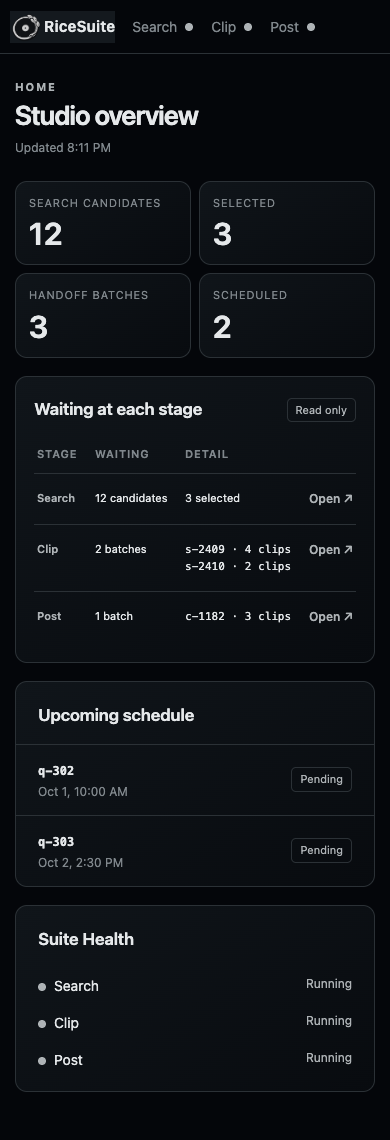
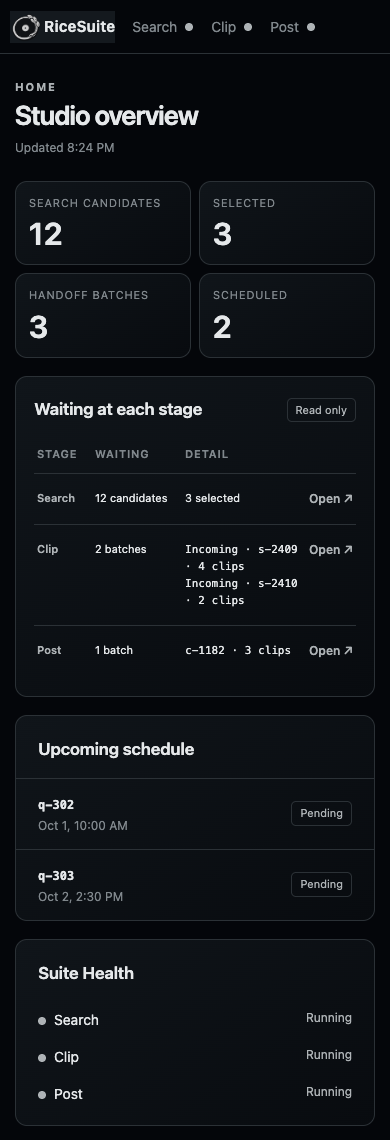
fix(shell): show Clipper workspace and pending schedule accurately

diff --git a/ricesuite/shell/shell.js b/ricesuite/shell/shell.js
@@ -54,6 +54,37 @@ function setBatches(field, batches) {
   }
 }
 
+function setClipBatches(incoming, open) {
+  const list = document.querySelector('[data-list="clip"]');
+  list.replaceChildren();
+  if (!Array.isArray(incoming) || !Array.isArray(open)) {
+    setCount("clip-waiting", "Clip is not answering", true);
+    const item = document.createElement("li");
+    item.className = "empty";
+    item.textContent = "Unavailable";
+    list.append(item);
+    return;
+  }
+  const batches = [
+    ...incoming.map(batch => ({ batch, label: "Incoming" })),
+    ...open.map(batch => ({ batch, label: "In Clip" }))
+  ];
+  setCount("clip-waiting", plural(batches.length, "batch", "batches"));
+  if (!batches.length) {
+    const item = document.createElement("li");
+    item.className = "empty";
+    item.textContent = "No batches waiting";
+    list.append(item);
+  }
+  for (const { batch, label } of batches) {
+    const item = document.createElement("li");
+    const name = batch.batch_id || "Unnamed batch";
+    const count = batch.clip_count;
+    item.textContent = `${label} · ${name}${count == null ? "" : ` · ${plural(count, "clip")}`}`;
+    list.append(item);
+  }
+}
+
 function setSchedule(batches) {
   const list = document.querySelector('[data-list="scheduled"]');
   list.replaceChildren();
@@ -105,17 +136,12 @@ function updateHome(data) {
     setCount("search-detail", "—", true);
   }
 
-  for (const [field, unavailable] of [
-    ["to_clipper", "Clip is not answering"],
-    ["to_poster", "Post is not answering"]
-  ]) {
-    const batches = data[field];
-    setCount(field, Array.isArray(batches) ? plural(batches.length, "batch", "batches") : unavailable, !Array.isArray(batches));
-    setBatches(field, batches);
-  }
+  setClipBatches(data.to_clipper, data.clip_open);
+  const postBatches = data.to_poster;
+  setCount("to_poster", Array.isArray(postBatches) ? plural(postBatches.length, "batch", "batches") : "Post is not answering", !Array.isArray(postBatches));
+  setBatches("to_poster", postBatches);
   const handoff = data.to_clipper;
-  const post = data.to_poster;
-  setCount("handoff", Array.isArray(handoff) && Array.isArray(post) ? handoff.length + post.length : "Unavailable", !Array.isArray(handoff) || !Array.isArray(post));
+  setCount("handoff", Array.isArray(handoff) && Array.isArray(postBatches) ? handoff.length + postBatches.length : "Unavailable", !Array.isArray(handoff) || !Array.isArray(postBatches));
 
   const scheduled = data.scheduled;
   setCount("scheduled", Array.isArray(scheduled) ? scheduled.length : "Unavailable", !Array.isArray(scheduled));

diff --git a/ricesuite/shell/index.html b/ricesuite/shell/index.html
@@ -42,7 +42,7 @@
             <thead><tr><th scope="col">Stage</th><th scope="col">Waiting</th><th scope="col">Detail</th><th scope="col"><span class="visually-hidden">Open pillar</span></th></tr></thead>
             <tbody>
               <tr><th scope="row">Search</th><td data-field="search-waiting">—</td><td data-field="search-detail">—</td><td><a href="#search">Open</a></td></tr>
-              <tr><th scope="row">Clip</th><td data-field="to_clipper">—</td><td><ul class="batch-list" data-list="to_clipper"></ul></td><td><a href="#clip">Open</a></td></tr>
+              <tr><th scope="row">Clip</th><td data-field="clip-waiting">—</td><td><ul class="batch-list" data-list="clip"></ul></td><td><a href="#clip">Open</a></td></tr>
               <tr><th scope="row">Post</th><td data-field="to_poster">—</td><td><ul class="batch-list" data-list="to_poster"></ul></td><td><a href="#post">Open</a></td></tr>
             </tbody>
           </table>

diff --git a/tests/test_gateway.py b/tests/test_gateway.py
@@ -248,8 +248,27 @@ def test_home_tolerates_down_pillars(monkeypatch, client):
     data = client.get("/api/suite/home").json()
     assert data["search"] == {"candidates": 0, "selected": 0}
     assert data["to_clipper"] is None
+    assert data["clip_open"] is None
     assert data["to_poster"] is None
     assert data["scheduled"] is None
+
+
+def test_home_includes_clipper_batches_already_pulled_for_review(monkeypatch, client):
+    def handler(request):
+        if request.url.path == "/api/workspace-batches":
+            return httpx.Response(
+                200, json={"batches": [{"batch_id": "held", "clip_count": 2}]}
+            )
+        if request.url.path in ("/api/searcher-inbox", "/api/handoff/inbox"):
+            return httpx.Response(200, json={"batches": []})
+        if request.url.path == "/api/queue":
+            return httpx.Response(200, json={"batches": []})
+        return httpx.Response(200, json=[])
+
+    monkeypatch.setattr(gateway, "_client", mock_client(handler))
+    data = client.get("/api/suite/home").json()
+    assert data["to_clipper"] == []
+    assert data["clip_open"] == [{"batch_id": "held", "clip_count": 2}]
 
 
 def test_home_reports_scheduled_batches(monkeypatch, client):
@@ -260,11 +279,26 @@ def test_home_reports_scheduled_batches(monkeypatch, client):
                 json={
                     "batches": [
                         {
+                            "id": "later",
+                            "fire_time": "2026-10-02T09:00:00+00:00",
+                            "status": "pending",
+                        },
+                        {
+                            "id": "interrupted",
+                            "fire_time": "2026-09-28T09:00:00+00:00",
+                            "status": "interrupted",
+                        },
+                        {
                             "id": "q1",
-                            "fire_time": "t",
+                            "fire_time": "2026-10-01T09:00:00+00:00",
                             "status": "pending",
                             "slots": [{"caption": "private"}],
-                        }
+                        },
+                        {
+                            "id": "running",
+                            "fire_time": "2026-09-29T09:00:00+00:00",
+                            "status": "running",
+                        },
                     ]
                 },
             )
@@ -272,7 +306,10 @@ def test_home_reports_scheduled_batches(monkeypatch, client):
 
     monkeypatch.setattr(gateway, "_client", mock_client(handler))
     data = client.get("/api/suite/home").json()
-    assert data["scheduled"] == [{"id": "q1", "fire_time": "t", "status": "pending"}]
+    assert data["scheduled"] == [
+        {"id": "q1", "fire_time": "2026-10-01T09:00:00+00:00", "status": "pending"},
+        {"id": "later", "fire_time": "2026-10-02T09:00:00+00:00", "status": "pending"},
+    ]
 
 
 def test_status_lists_the_three_tabs(client, tmp_path, monkeypatch):

diff --git a/ricesuite/gateway.py b/ricesuite/gateway.py
@@ -20,6 +20,7 @@ from __future__ import annotations
 import asyncio
 import json
 import os
+from datetime import UTC, datetime
 from pathlib import Path
 
 import httpx
@@ -147,17 +148,22 @@ async def _get_json(port: int, path: str):
 
 
 async def suite_home(request: Request) -> Response:
-    """Batches waiting at each stage, as each consumer itself reports them
-    (Clipper's Searcher inbox, Poster's Clipper inbox), so the home view can
-    never disagree with what the next Pull would take. Every source is
-    best-effort: a pillar that is down reports null."""
-    profiles, clip_inbox, post_inbox, queue = await asyncio.gather(
+    """Read-only stage counts, including batches already in Clipper's workspace.
+
+    Every source is best-effort: an unavailable source reports null. Only
+    pending Poster queue entries are upcoming scheduled batches.
+    """
+    profiles, clip_inbox, clip_workspace, post_inbox, queue = await asyncio.gather(
         _get_json(PORTS["searcher"], "api/profiles"),
         _get_json(PORTS["clipper"], "api/searcher-inbox"),
+        _get_json(PORTS["clipper"], "api/workspace-batches"),
         _get_json(PORTS["poster"], "api/handoff/inbox"),
         _get_json(PORTS["poster"], "api/queue"),
     )
     to_clipper = clip_inbox.get("batches") if isinstance(clip_inbox, dict) else None
+    clip_open = (
+        clip_workspace.get("batches") if isinstance(clip_workspace, dict) else None
+    )
     to_poster = None
     if isinstance(post_inbox, dict):
         to_poster = list(post_inbox.get("batches") or [])
@@ -173,18 +179,31 @@ async def suite_home(request: Request) -> Response:
         }
     scheduled = None
     if isinstance(queue, dict):
+        def fire_time(batch):
+            try:
+                value = datetime.fromisoformat(batch["fire_time"])
+                if value.tzinfo is not None:
+                    return value.astimezone(UTC)
+            except (KeyError, TypeError, ValueError):
+                pass
+            return datetime.max.replace(tzinfo=UTC)
+
         scheduled = [
             {
                 "id": b.get("id"),
                 "fire_time": b.get("fire_time"),
                 "status": b.get("status"),
             }
-            for b in queue.get("batches", [])
+            for b in sorted(
+                (b for b in queue.get("batches", []) if b.get("status") == "pending"),
+                key=fire_time,
+            )
         ]
     return JSONResponse(
         {
             "search": search,
             "to_clipper": to_clipper,
+            "clip_open": clip_open,
             "to_poster": to_poster,
             "scheduled": scheduled,
         }

diff --git a/clipper/tests/test_searcher_pickup.py b/clipper/tests/test_searcher_pickup.py
@@ -298,6 +298,28 @@ def test_open_batches_come_back_oldest_first(env: Path) -> None:
     assert client.get("/api/workspace").json()["batch_id"] == "b2"
 
 
+def test_workspace_batches_lists_all_open_including_failed_render(env: Path) -> None:
+    _write_batch(env, "b1", created_at="2026-09-04T00:00:00Z")
+    _write_batch(env, "b2", created_at="2026-09-05T00:00:00Z")
+    client = TestClient(main.app)
+    first = client.post("/api/pull-from-searcher").json()
+    client.post("/api/pull-from-searcher")
+    jobs.get_job(first["jobs"][0]["id"]).status = "error"
+
+    assert client.get("/api/searcher-inbox").json() == {"batches": []}
+    assert client.get("/api/workspace-batches").json() == {
+        "batches": [
+            {"batch_id": "b1", "clip_count": 1},
+            {"batch_id": "b2", "clip_count": 1},
+        ]
+    }
+
+    client.delete("/api/workspace", params={"batch_id": "b1"})
+    assert client.get("/api/workspace-batches").json()["batches"] == [
+        {"batch_id": "b2", "clip_count": 1}
+    ]
+
+
 def test_an_open_batch_whose_jobs_are_gone_is_dropped(env: Path) -> None:
     import shutil
 
@@ -307,6 +329,7 @@ def test_an_open_batch_whose_jobs_are_gone_is_dropped(env: Path) -> None:
         shutil.rmtree(jobs.WORK_ROOT / j["id"])
     jobs._JOBS.clear()
     assert client.get("/api/workspace").json()["batch_id"] is None
+    assert client.get("/api/workspace-batches").json() == {"batches": []}
 
 
 def test_a_retried_pull_key_returns_the_batch_it_pulled(env: Path) -> None:

diff --git a/clipper/app/searcher_pickup.py b/clipper/app/searcher_pickup.py
@@ -321,6 +321,23 @@ def open_batch(batch_id: str | None = None) -> dict:
     return _open_payload(lambda r: r["batch_id"] == batch_id)
 
 
+def open_batches() -> list[dict]:
+    """Summaries of every pulled batch still in the review workspace.
+
+    This is a read-only view for the Suite home page. Records whose jobs have
+    gone away are omitted, just as ``open_batch`` omits them on restore.
+    """
+    with jobs.job_operation_lock():
+        batches = []
+        for record in _load_open():
+            count = sum(
+                jobs.get_job(job_id) is not None for job_id in record["job_ids"]
+            )
+            if count:
+                batches.append({"batch_id": record["batch_id"], "clip_count": count})
+        return batches
+
+
 def _open_payload(wanted) -> dict:
     """The oldest open batch whose record ``wanted`` accepts. A batch none of
     whose jobs still exist (the media cache was cleared) is dropped."""

diff --git a/clipper/app/main.py b/clipper/app/main.py
@@ -487,6 +487,12 @@ def open_workspace_batch(batch_id: str | None = None) -> dict:
     return searcher_pickup.open_batch(batch_id)
 
 
+@app.get("/api/workspace-batches")
+def list_workspace_batches() -> dict:
+    """Read-only summaries of all batches awaiting Clipper review or render."""
+    return {"batches": searcher_pickup.open_batches()}
+
+
 @app.delete("/api/workspace")
 def discard_workspace_batch(batch_id: str) -> dict:
     """The reviewer discarded this pulled batch (Start over): stop offering it."""

diff --git a/docs/design/issue-22/README.md b/docs/design/issue-22/README.md
@@ -27,8 +27,10 @@ No pillar logo is a variant of the Suite logo.
 The maintainer selected **B · Operations** with two copy removals, the health
 heading changed to **Suite Health**, and the simplified Suite disc. The
 [interactive comparison](home-options.html) retains A and C as prior proposals.
-The home page remains read-only and uses the existing API for counts, handoff
-batches, schedule, and health. Its implementation has been visually checked
+The home page remains read-only. Its Clip row includes both incoming handoffs
+and batches already pulled into Clipper for review or render. The upcoming
+schedule counts only pending Post entries and orders them by fire time. The
+implementation has been visually checked
 with fixture data at [desktop](home-implemented-desktop.png) and
 [mobile](home-implemented-mobile.png) sizes.
 

diff --git a/clipper/docs/integration/searcher-pickup.md b/clipper/docs/integration/searcher-pickup.md
@@ -82,6 +82,12 @@ own pulled batch in `sessionStorage` and restores it after a reload; an open
 batch the tab does not hold is named on the page and opens there only on a
 **Pull** click.
 
+For the RiceSuite home view, `GET /api/workspace-batches` returns a read-only
+`{"batches": [{"batch_id": "…", "clip_count": 1}]}` summary of **all** open
+batches, including one held after a failed render. It omits records whose jobs
+have been removed. Unlike `GET /api/workspace`, this endpoint does not select
+one batch for a tab or return job details.
+
 `POST /api/handoff` takes a `send_key`: a retry with the key of a send that
 already wrote its batch gets that batch back with `replayed: true`, and
 nothing new is written; a key reused for other clips is refused (409). Each

diff --git a/clipper/CHANGELOG.md b/clipper/CHANGELOG.md
@@ -16,6 +16,10 @@ and this project aims to follow [Semantic Versioning](https://semver.org/).
   path so they never read a developer's real `.env`.
 
 ### Added
+- **Suite home workspace summary.** `GET /api/workspace-batches` lists every
+  pulled Searcher batch still open in Clipper by batch ID and clip count. It is
+  read-only and includes batches held by a failed render, so the Suite home
+  does not lose them when the Searcher inbox becomes empty.
 - **First-time-user README.** Requirements table (Python 3.11–3.14, ffmpeg with
   libass, macOS emoji fonts, the Whisper model download), venv install steps, a
   configuration table verified against the code, a first run with a generated
